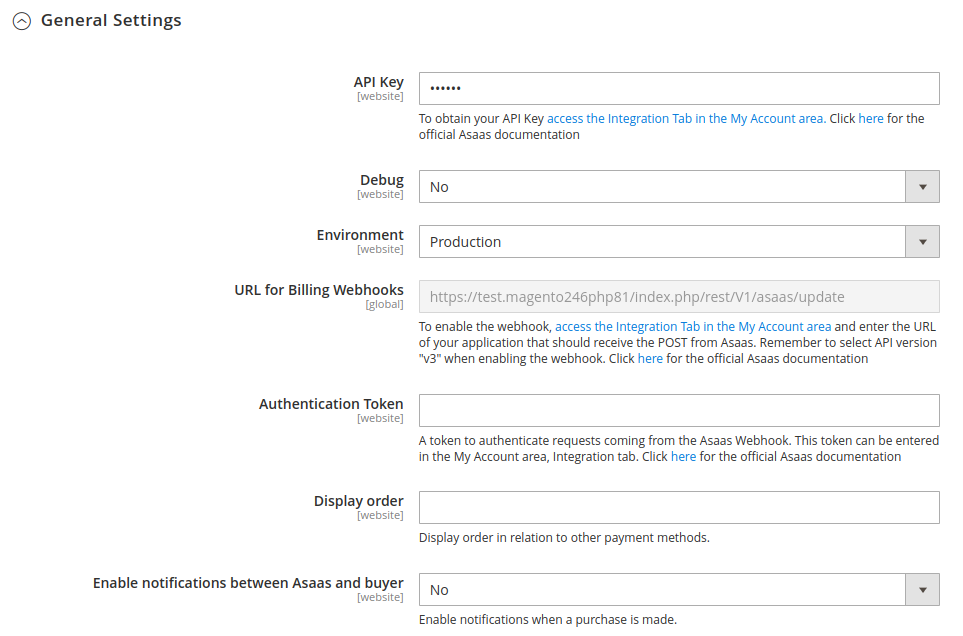
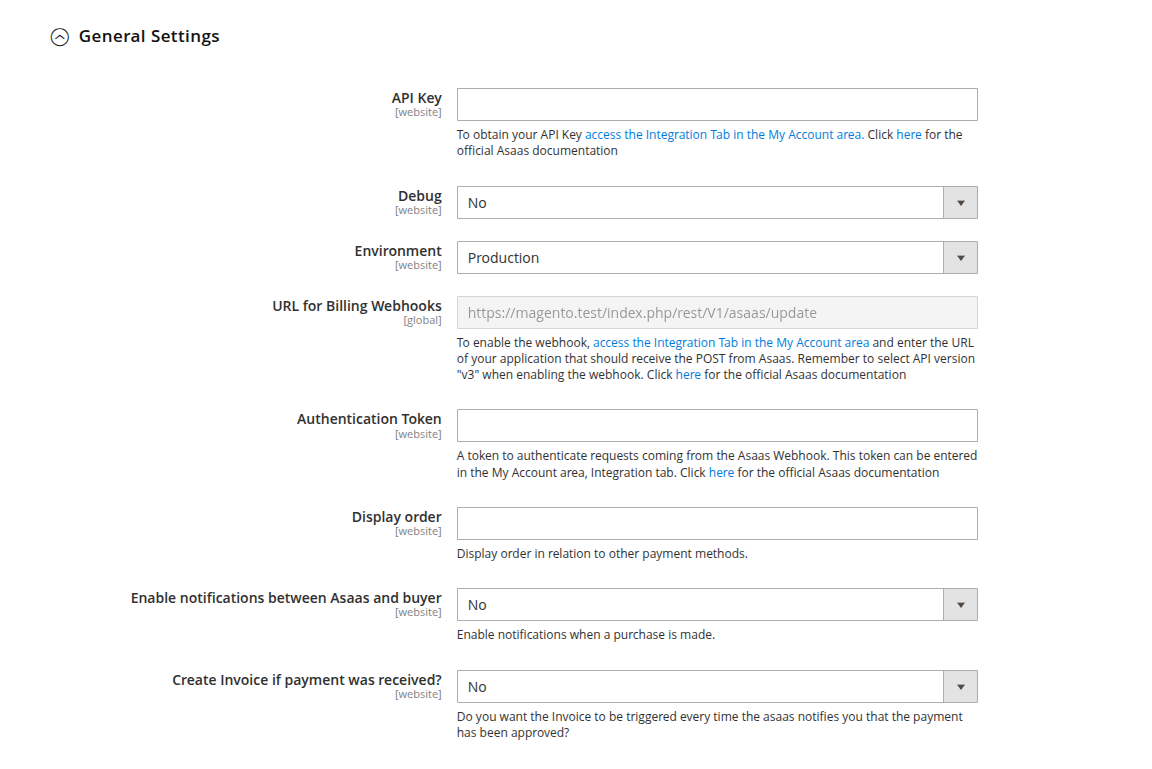
atualização da documentação do modulo

diff --git a/README.md b/README.md
@@ -80,7 +80,8 @@ Nota: Para que as configurações a seguir funcionem, todos os passos anteriores
 
 - Habilitar notificações entre Asaas e comprador
     - Habilita mensagens de email informando alterações no status do pagamento. Esta opção pode ser habilitada ou não.
-
+- Criar Fatura para o pedido se o pagamento for recebido:
+  - Gera a fatura do pedido quando recebe a notificação de pagamento aprovado.
 ![FOTO 4](.github/img/04.png)
 
 ### Configurações de Cartão de Crédito

diff --git a/README-en.md b/README-en.md
@@ -82,6 +82,8 @@ Note: For the following settings to work, all the previous steps must have been 
 
 - Enable notifications between Asaas and buyer
     - Enables email messages informing payment status changes. This option can be enabled or not.
+- Create Invoice if payment was received
+  - Order invoice will be triggered every time the asaas notifies you that the payment has been approved
 
 ![FOTO 4](.github/img-en/04.png)
 
